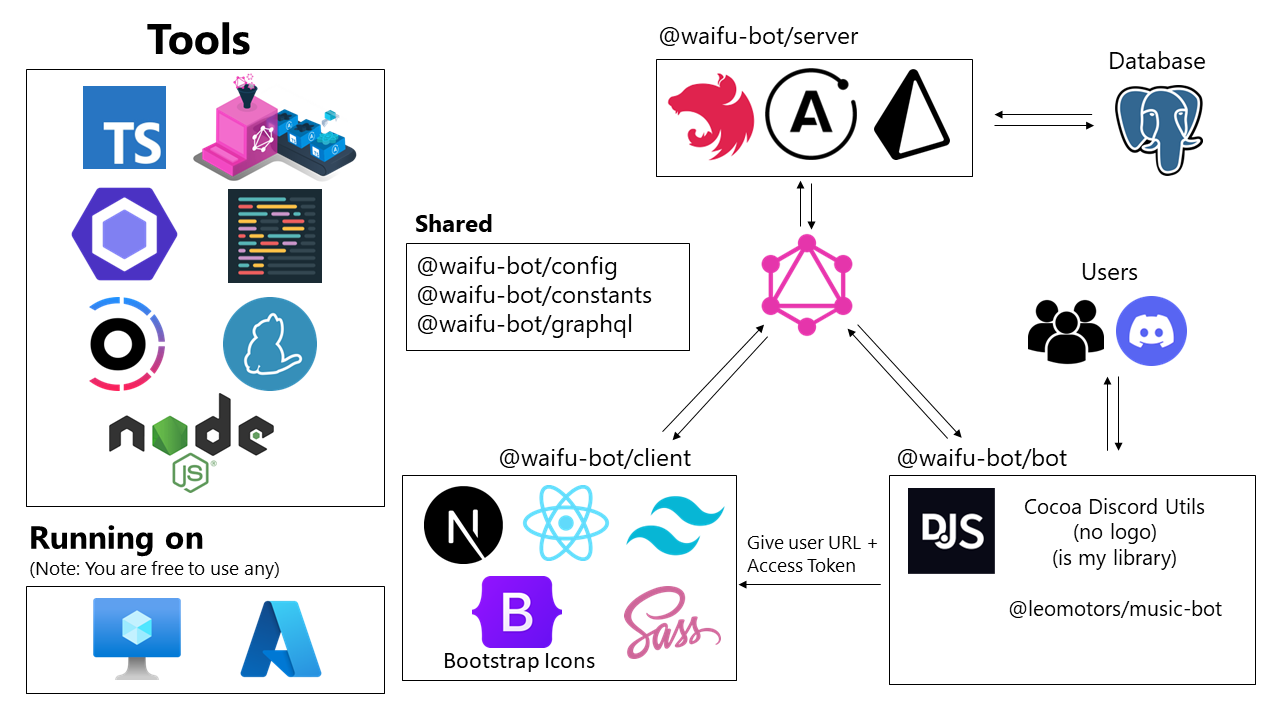
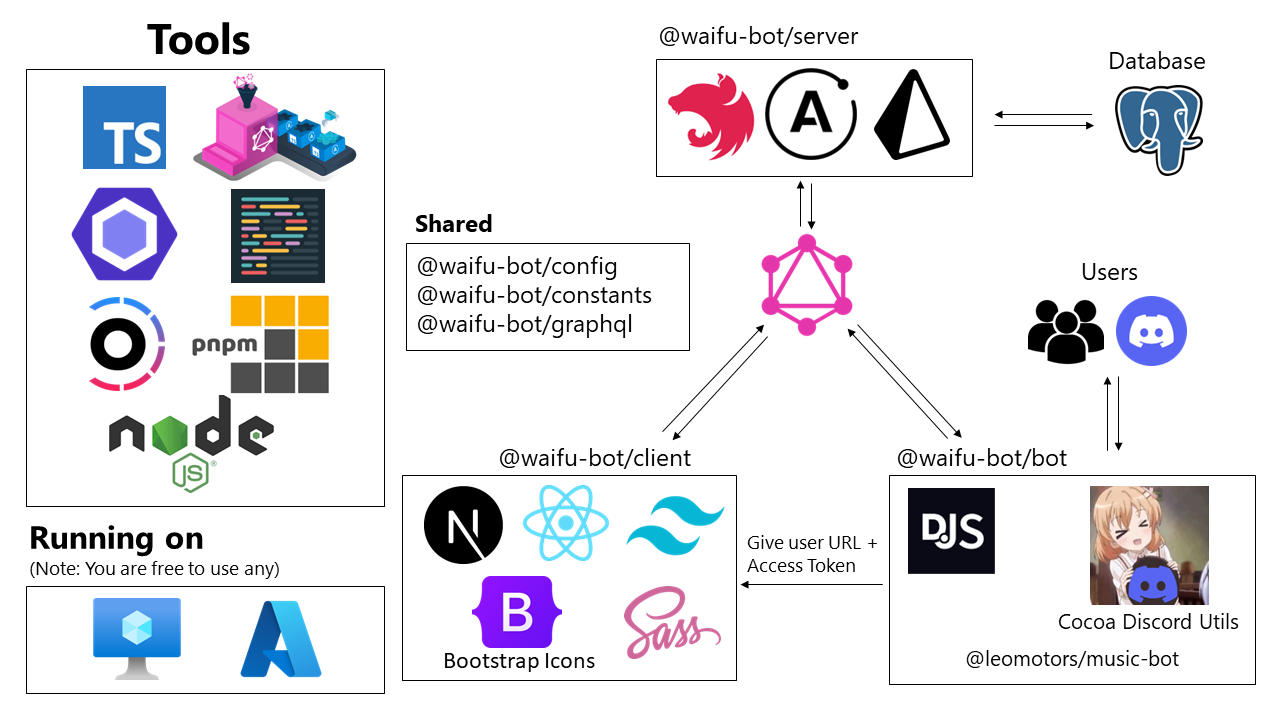
update tech stack image: pnpm

Changed region(s): [[0.75, 0.6722, 0.9688, 0.9472], [0.125, 0.275, 0.2812, 0.55]]

diff --git a/README.md b/README.md
@@ -33,8 +33,8 @@ The most ~~over-engineered~~ advanced Discord Bot
 ### Prerequisites
 
 - Your Discord Bot (of course)
-- nodejs (16+ Required, 16 Recommended)
-- yarn
+- nodejs 16
+- pnpm 7
 - PostgreSQL Database (v12 Recommended) and Public Server (VM) for Website
 - Tenor API Key (not required, it works even with invalid key lol)
 - [golden-frame](https://github.com/Leomotors/golden-frame) (Installable via pip, required)
@@ -42,9 +42,9 @@ The most ~~over-engineered~~ advanced Discord Bot
 ### Steps
 
 - Fill in .env (see .env.example in each apps)
-- yarn install
-- yarn workspace @waifu-bot/server prisma migrate dev
-- yarn start (Will start all apps at once, Turborepo will automatically build for you!)
+- pnpm install
+- (in apps/server) pnpm prisma migrate dev
+- pnpm start (Will start all apps at once, Turborepo will automatically build for you!)
 
 ## Waifu Bot Archive
 
